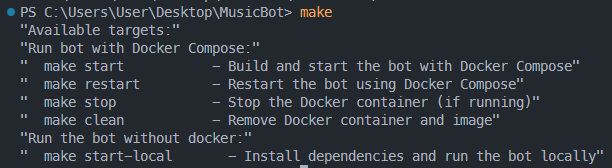
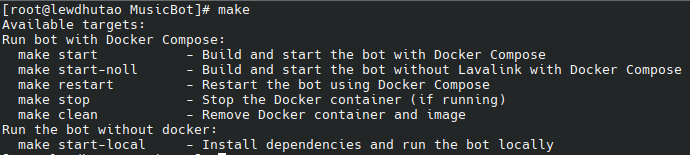
update readme

Changed region(s): [[0.0, 0.0, 1.0, 1.0], [0.8072, 0.671, 0.8382, 0.6968]]

diff --git a/README.md b/README.md
@@ -1,24 +1,81 @@
-## Work in Progress
+<div style="text-align: center; font-size: 24px;"><b>Discord Music Bot</b></div>
 
-This bot is currently in development. You can use slash commands at the moment, and we will soon add support for message commands.
+## Features
+- Built using Discord.js v14 and Lavalink v4
+- Supports Slash Commands, Context Commands, and Prefix Commands
+- User-friendly and easy to set up
+- 24/7 Music Playback
+- Customizable Prefix
+- Supports Docker
 
+## Supported Sources
 
-### How to Run This Bot
+![YouTube](https://img.shields.io/badge/YouTube-FF0000?style=flat-square&logo=youtube&logoColor=white) ![SoundCloud](https://img.shields.io/badge/SoundCloud-FF3300?style=flat-square&logo=soundcloud&logoColor=white) ![Bandcamp](https://img.shields.io/badge/Bandcamp-629AA9?style=flat-square&logo=bandcamp&logoColor=white) ![Twitch](https://img.shields.io/badge/Twitch-9146FF?style=flat-square&logo=twitch&logoColor=white) ![Vimeo](https://img.shields.io/badge/Vimeo-1AB7EA?style=flat-square&logo=vimeo&logoColor=white) ![Nico](https://img.shields.io/badge/Nico-FF0066?style=flat-square&logo=nico&logoColor=white) ![HTTP](https://img.shields.io/badge/HTTP-FFA500?style=flat-square&logo=http&logoColor=white) ![Mixer](https://img.shields.io/badge/Mixer-FFA500?style=flat-square&logo=mixer&logoColor=white)
 
-You can run this bot using Docker or without Docker. For an easy setup, you can use the `make` command. If you don't have `make` installed on your machine, you can use `run.sh`.
+### Required Plugins
 
-#### Make Setup
+Note: If you use Lavalink Docker, LavaSrc and Youtube-Source Plugins are already installed. You just need to set up in [`lavalink/application.yml`](./lavalink/application.yml)
 
-1. **Install `make`**: Ensure you have the `make` command installed on your system. Then, set up the configuration file in the `src/config.js` directory. Make sure to complete all necessary fields in the config file.
-2. **Run `make`**: Open your console and type `make`. A list of available commands will appear.
+![Spotify](https://img.shields.io/badge/Spotify-1ED760?style=flat-square&logo=spotify&logoColor=white) ![Apple Music](https://img.shields.io/badge/Apple%20Music-000000?style=flat-square&logo=apple-music&logoColor=white) ![Deezer](https://img.shields.io/badge/Deezer-FF0000?style=flat-square&logo=deezer&logoColor=white)
 
-    ![Make Setup](./assets/make_setup.png)
+## Requirements
+- Node Version v18.x or higher
+- Lavalink v4
+- MongoDB (You can set up a free MongoDB server [here](https://www.mongodb.com/))
 
-3. **Run the Bot Without Docker**: Use the command `make start-local`.
-4. **Run the Bot With Docker**: Use the command `make start`.
+## Installation
 
----
+You can run this bot with or without Docker. For an easy setup, use the `make` command. If `make` is not available, use `run.sh`. Ensure Docker is installed on your machine to use the bot with Docker.
 
-### Setup the bot without makefile
+### Using Make
 
-TODO: add this
+![Make help](./assets/make_setup.png)
+
+### Without Make
+
+- Before using `./run.sh`, make sure to run `chmod +x ./run.sh`.
+
+![NoMake Help](./assets/nomake_setup.png)
+
+### Command Usage (Docker)
+
+1. **make start** or **./run.sh start**: Starts the bot with Lavalink using Docker Compose.
+
+![Make Start](./assets/make_start.png)
+
+2. **make start-noll** or **./run.sh start-noll**: Starts the bot without Lavalink using Docker Compose.
+
+![Make Noll](./assets/make_startnoll.png)
+
+3. **make restart** or **./run.sh restart**: Restarts the bot.
+
+![Make Restart](./assets/make_restart.png)
+
+4. **make stop** or **./run.sh stop**: Stops the bot.
+
+![Make Stop](./assets/make_stop.png)
+
+5. **make clean** or **./run.sh clean**: Removes Docker containers.
+
+![Make Clean](./assets/make_clean.png)
+
+### Command Usage (Without Docker)
+
+1. **make start-local** or **./run.sh start local**: Starts the bot locally on your machine without Docker Compose.
+
+Note: If you use a VPS and start the bot without Docker, make sure to use `pm2` to keep the bot online 24/7.
+
+![Local Start](./assets/make_startlocal.png)
+
+<br>
+
+## Preview
+
+![Preview 1](./assets/p1.png)
+![Preview 2](./assets/p2.png)
+![Preview 3](./assets/p3.png)
+![Preview 4](./assets/p4.png)
+
+## LICENSE
+
+This project is licensed under the ISC License. You are free to use the music bot for any purpose, including making it public or verifying the bot.
